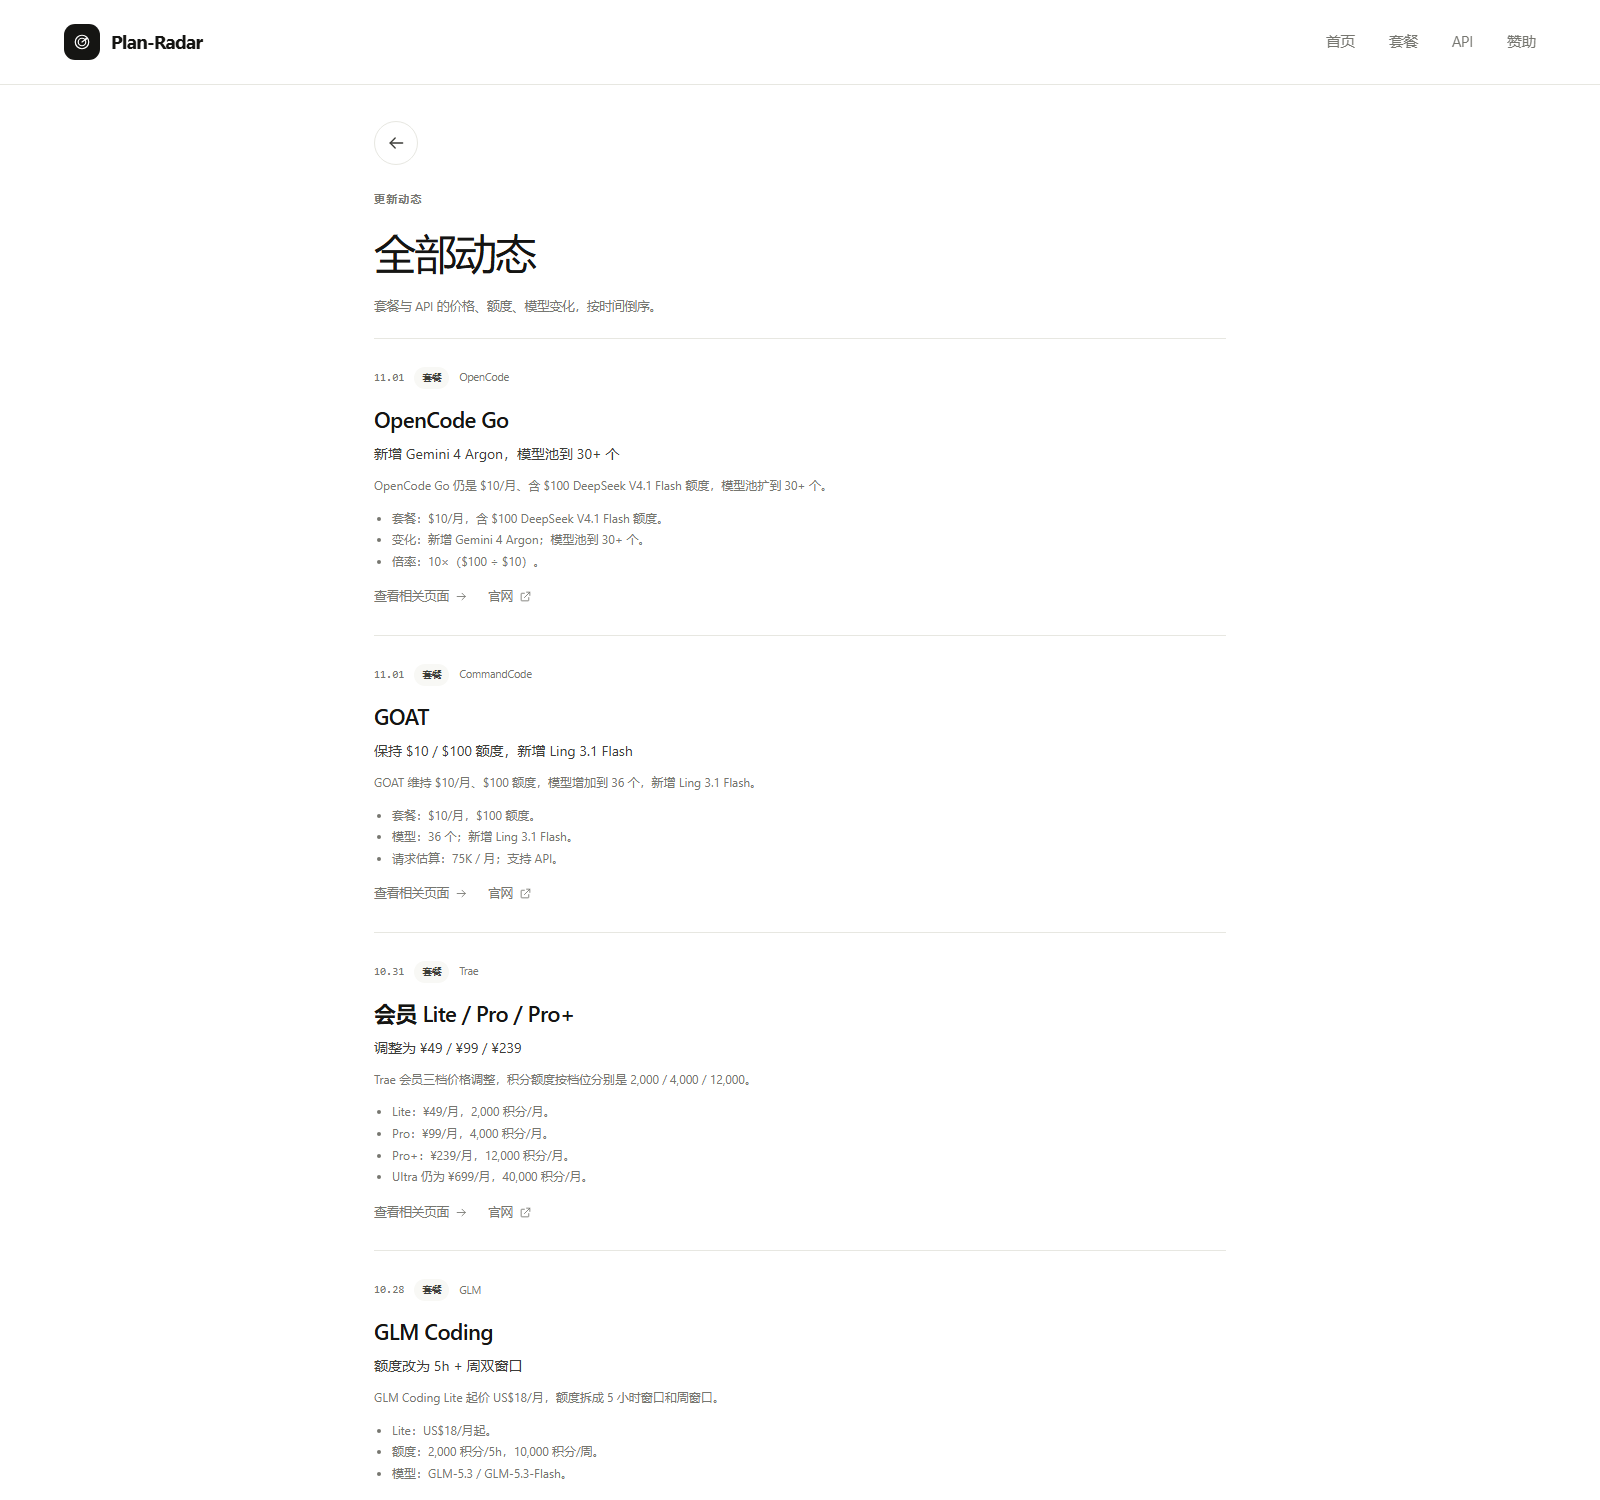
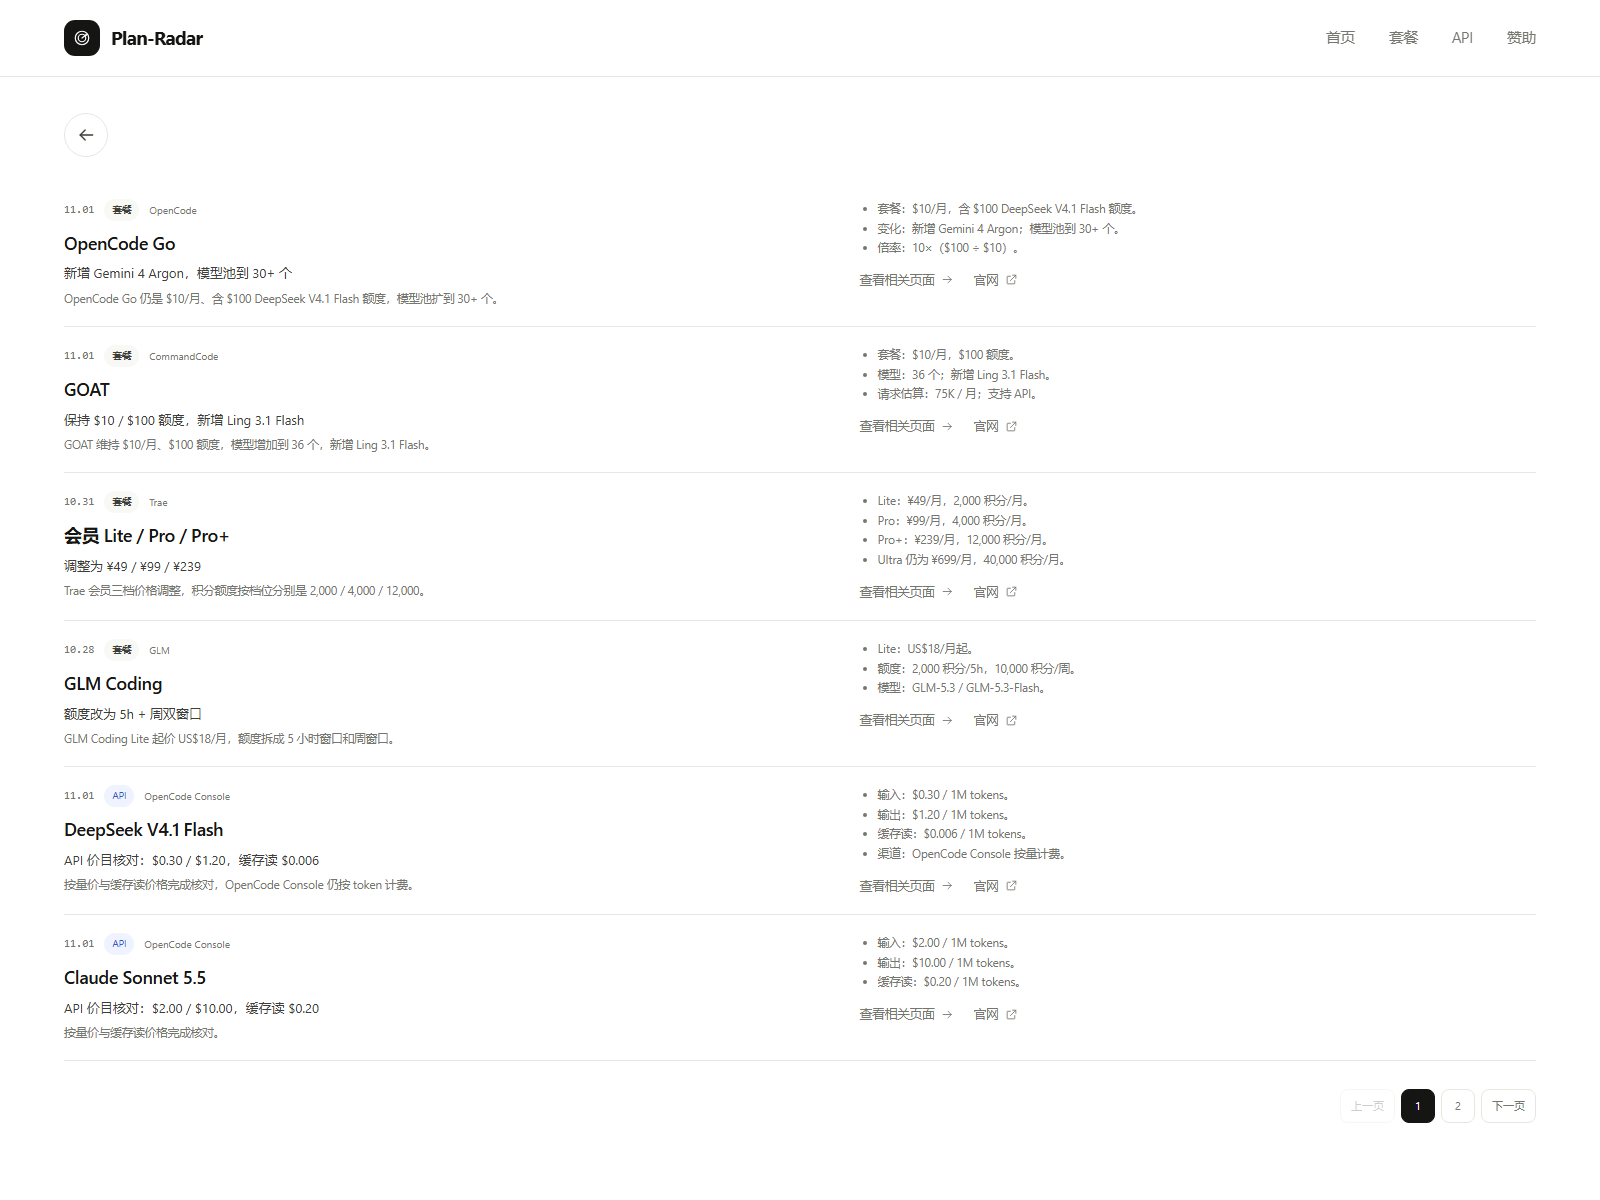
feat: compact updates page

diff --git a/components/UpdatesList.tsx b/components/UpdatesList.tsx
@@ -1,0 +1,111 @@
+"use client";
+
+import { useEffect, useState } from "react";
+import { Icon } from "./Icon";
+import type { Update } from "@/lib/plans";
+
+const PAGE_SIZE = 6;
+
+export function UpdatesList({ updates }: { updates: Update[] }) {
+  const totalPages = Math.max(1, Math.ceil(updates.length / PAGE_SIZE));
+  const [page, setPage] = useState(1);
+
+  useEffect(() => {
+    const hash = decodeURIComponent(window.location.hash.slice(1));
+    if (!hash) return;
+    const index = updates.findIndex((update) => update.id === hash);
+    if (index >= 0) {
+      setPage(Math.floor(index / PAGE_SIZE) + 1);
+    }
+  }, [updates]);
+
+  useEffect(() => {
+    const hash = decodeURIComponent(window.location.hash.slice(1));
+    if (!hash) return;
+    const target = document.getElementById(hash);
+    if (target) target.scrollIntoView({ block: "start" });
+  }, [page]);
+
+  const visible = updates.slice((page - 1) * PAGE_SIZE, page * PAGE_SIZE);
+
+  return (
+    <>
+      <div className="updates-list">
+        {visible.map((update) => (
+          <article className="update-detail" id={update.id} key={update.id}>
+            <div className="update-detail-main">
+              <div className="update-detail-meta">
+                <span className="update-date">{update.date}</span>
+                <span className={`update-kind ${update.kind}`}>
+                  {update.kind === "api" ? "API" : "套餐"}
+                </span>
+                <span>{update.provider}</span>
+              </div>
+
+              <h2>{update.strong}</h2>
+              <p className="update-lead">{update.text}</p>
+              <p className="update-summary">{update.summary}</p>
+            </div>
+
+            <div className="update-detail-side">
+              <ul className="update-points">
+                {update.details.map((detail) => (
+                  <li key={detail}>{detail}</li>
+                ))}
+              </ul>
+
+              <div className="update-links">
+                <a className="link-arrow" href={update.related}>
+                  查看相关页面 <Icon name="arrow" className="icon icon-sm" />
+                </a>
+                <a
+                  className="link-arrow"
+                  href={update.source}
+                  target="_blank"
+                  rel="noreferrer"
+                >
+                  官网 <Icon name="external" className="icon icon-sm" />
+                </a>
+              </div>
+            </div>
+          </article>
+        ))}
+      </div>
+
+      {totalPages > 1 ? (
+        <nav className="updates-pagination" aria-label="动态分页">
+          <button
+            type="button"
+            onClick={() => setPage((current) => Math.max(1, current - 1))}
+            disabled={page === 1}
+          >
+            上一页
+          </button>
+          {Array.from({ length: totalPages }, (_, index) => {
+            const number = index + 1;
+            return (
+              <button
+                type="button"
+                key={number}
+                className={page === number ? "active" : undefined}
+                aria-current={page === number ? "page" : undefined}
+                onClick={() => setPage(number)}
+              >
+                {number}
+              </button>
+            );
+          })}
+          <button
+            type="button"
+            onClick={() =>
+              setPage((current) => Math.min(totalPages, current + 1))
+            }
+            disabled={page === totalPages}
+          >
+            下一页
+          </button>
+        </nav>
+      ) : null}
+    </>
+  );
+}

diff --git a/app/globals.css b/app/globals.css
@@ -472,24 +472,19 @@ h1, h2, h3, p { margin: 0; }
 
 /* ---------- updates page ---------- */
 
-.updates-page { max-width: 980px; margin: 0 auto; }
-.updates-head {
-  padding: 26px 0 22px;
-  border-bottom: 1px solid var(--line);
-}
-.updates-head h1 {
-  margin-top: 10px;
-  font-size: 42px;
-  font-weight: 500;
-  letter-spacing: -0.04em;
-}
-.updates-head p { margin-top: 8px; font-size: 12.5px; color: var(--muted); }
+.updates-page { max-width: none; margin: 0; }
+.updates-list { margin-top: 24px; }
 .update-detail {
-  padding: 28px 0;
+  display: grid;
+  grid-template-columns: minmax(0, 1.05fr) minmax(0, 0.95fr);
+  gap: 48px;
+  padding: 18px 0;
   border-bottom: 1px solid var(--line);
   scroll-margin-top: 100px;
 }
-.update-detail-meta { display: flex; align-items: center; gap: 10px; font-size: 10.5px; color: var(--muted); }
+.update-detail-main { min-width: 0; }
+.update-detail-side { min-width: 0; }
+.update-detail-meta { display: flex; align-items: center; gap: 10px; font-size: 10px; color: var(--muted); }
 .update-kind {
   padding: 3px 8px;
   border-radius: 999px;
@@ -499,21 +494,47 @@ h1, h2, h3, p { margin: 0; }
 }
 .update-kind.api { background: #eef3ff; color: #3457c8; }
 .update-detail h2 {
-  margin-top: 12px;
-  font-size: 22px;
+  margin-top: 8px;
+  font-size: 18px;
   font-weight: 550;
-  letter-spacing: -0.025em;
+  letter-spacing: -0.02em;
 }
-.update-lead { margin-top: 5px; font-size: 14px; color: var(--ink-2); }
-.update-summary { margin-top: 10px; font-size: 12px; line-height: 1.7; color: var(--muted); }
+.update-lead { margin-top: 4px; font-size: 13px; color: var(--ink-2); }
+.update-summary { margin-top: 6px; font-size: 11.5px; line-height: 1.6; color: var(--muted); }
 .update-points {
-  margin-top: 12px;
+  display: block;
+  margin-top: 0;
   padding-left: 18px;
   color: var(--muted);
-  font-size: 12px;
-  line-height: 1.8;
+  font-size: 11.5px;
+  line-height: 1.7;
 }
-.update-links { display: flex; gap: 20px; margin-top: 14px; font-size: 11px; }
+.update-links { display: flex; gap: 20px; margin-top: 12px; font-size: 10.5px; }
+.updates-pagination {
+  display: flex;
+  align-items: center;
+  justify-content: flex-end;
+  gap: 6px;
+  margin-top: 28px;
+}
+.updates-pagination button {
+  min-width: 34px;
+  height: 34px;
+  padding: 0 10px;
+  border: 1px solid var(--line);
+  border-radius: 8px;
+  background: #fff;
+  color: var(--muted);
+  font-size: 11px;
+  cursor: pointer;
+}
+.updates-pagination button:hover { border-color: var(--line-2); color: var(--ink); }
+.updates-pagination button.active {
+  background: var(--ink);
+  border-color: var(--ink);
+  color: #fff;
+}
+.updates-pagination button:disabled { opacity: 0.35; cursor: default; }
 
 /* ---------- entries ---------- */
 
@@ -1586,7 +1607,9 @@ h1, h2, h3, p { margin: 0; }
   .plan-meta-list { grid-template-columns: repeat(2, minmax(0, 1fr)); }
   .brief-card { padding: 20px; }
   .updates-head h1 { font-size: 30px; }
-  .update-detail { padding: 24px 0; }
+  .update-detail { grid-template-columns: 1fr; gap: 0; padding: 16px 0; }
+  .update-points { grid-template-columns: 1fr; }
+  .updates-pagination { justify-content: flex-start; }
   .pd-specs { grid-template-columns: repeat(2, minmax(0, 1fr)); }
   .pd-title-row { align-items: flex-start; flex-direction: column; gap: 12px; }
   .pd-title-row .price { font-size: 32px; }

diff --git a/app/updates/page.tsx b/app/updates/page.tsx
@@ -1,58 +1,18 @@
 import { Icon } from "@/components/Icon";
+import { UpdatesList } from "@/components/UpdatesList";
 import { updates } from "@/lib/plans";
 
 export default function UpdatesPage() {
   return (
     <div className="wrap updates-page">
+      <h1 className="visually-hidden">全部动态</h1>
       <div className="detail-top">
         <a className="back-arrow" href="/" aria-label="返回首页">
           <Icon name="arrow-left" />
         </a>
       </div>
 
-      <header className="updates-head">
-        <div className="eyebrow">更新动态</div>
-        <h1>全部动态</h1>
-        <p>套餐与 API 的价格、额度、模型变化，按时间倒序。</p>
-      </header>
-
-      <div className="updates-list">
-        {updates.map((update) => (
-          <article className="update-detail" id={update.id} key={update.id}>
-            <div className="update-detail-meta">
-              <span className="update-date">{update.date}</span>
-              <span className={`update-kind ${update.kind}`}>
-                {update.kind === "api" ? "API" : "套餐"}
-              </span>
-              <span>{update.provider}</span>
-            </div>
-
-            <h2>{update.strong}</h2>
-            <p className="update-lead">{update.text}</p>
-            <p className="update-summary">{update.summary}</p>
-
-            <ul className="update-points">
-              {update.details.map((detail) => (
-                <li key={detail}>{detail}</li>
-              ))}
-            </ul>
-
-            <div className="update-links">
-              <a className="link-arrow" href={update.related}>
-                查看相关页面 <Icon name="arrow" className="icon icon-sm" />
-              </a>
-              <a
-                className="link-arrow"
-                href={update.source}
-                target="_blank"
-                rel="noreferrer"
-              >
-                官网 <Icon name="external" className="icon icon-sm" />
-              </a>
-            </div>
-          </article>
-        ))}
-      </div>
+      <UpdatesList updates={updates} />
     </div>
   );
 }

diff --git a/lib/plans.ts b/lib/plans.ts
@@ -472,4 +472,55 @@ export const updates: Update[] = [
     related: "/api/deepseek-v4-1-flash/",
     source: "https://opencode.ai/v2/docs/console/models/",
   },
+  {
+    id: "api-claude-price-1101",
+    date: "11.01",
+    kind: "api",
+    provider: "OpenCode Console",
+    strong: "Claude Sonnet 5.5",
+    text: "API 价目核对：$2.00 / $10.00，缓存读 $0.20",
+    summary: "按量价与缓存读价格完成核对。",
+    details: [
+      "输入：$2.00 / 1M tokens。",
+      "输出：$10.00 / 1M tokens。",
+      "缓存读：$0.20 / 1M tokens。",
+    ],
+    href: "/updates/#api-claude-price-1101",
+    related: "/api/claude-sonnet-5-5/",
+    source: "https://opencode.ai/v2/docs/console/models/",
+  },
+  {
+    id: "api-gpt-price-1101",
+    date: "11.01",
+    kind: "api",
+    provider: "OpenCode Console",
+    strong: "GPT-6.1 Sol",
+    text: "API 价目核对：$2.00 / $10.00，缓存读 $0.20",
+    summary: "按量价与缓存读价格完成核对。",
+    details: [
+      "输入：$2.00 / 1M tokens。",
+      "输出：$10.00 / 1M tokens。",
+      "缓存读：$0.20 / 1M tokens。",
+    ],
+    href: "/updates/#api-gpt-price-1101",
+    related: "/api/gpt-6/",
+    source: "https://opencode.ai/v2/docs/console/models/",
+  },
+  {
+    id: "api-glm-price-1101",
+    date: "11.01",
+    kind: "api",
+    provider: "OpenCode Console",
+    strong: "GLM-5.3",
+    text: "API 价目核对：$1.40 / $4.40，缓存读 $0.26",
+    summary: "按量价与缓存读价格完成核对。",
+    details: [
+      "输入：$1.40 / 1M tokens。",
+      "输出：$4.40 / 1M tokens。",
+      "缓存读：$0.26 / 1M tokens。",
+    ],
+    href: "/updates/#api-glm-price-1101",
+    related: "/api/glm-5-3/",
+    source: "https://opencode.ai/v2/docs/console/models/",
+  },
 ];

diff --git a/app/page.tsx b/app/page.tsx
@@ -36,7 +36,7 @@ export default function HomePage() {
           </div>
 
           <div className="updates">
-            {updates.map((update) => (
+            {updates.slice(0, 5).map((update) => (
               <a className="update-row" href={update.href} key={update.id}>
                 <span className="update-date">{update.date}</span>
                 <span className="update-provider">{update.provider}</span>
